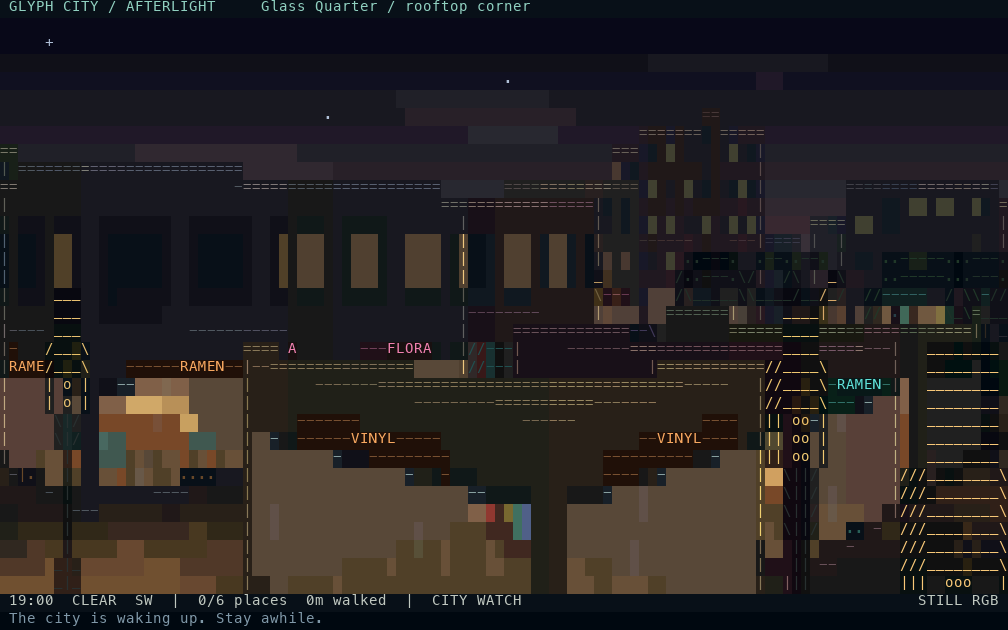
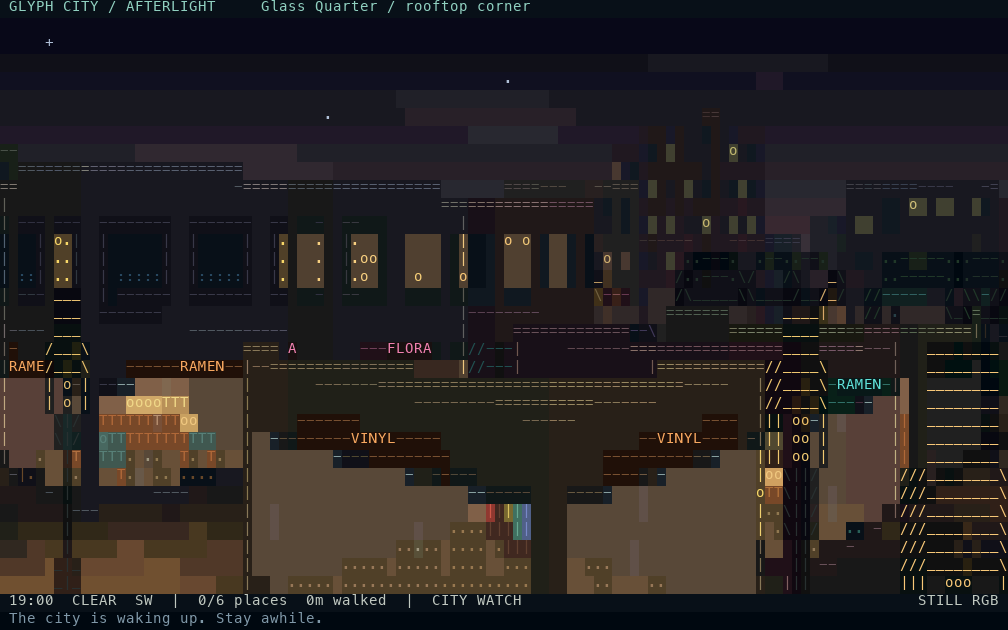
Use distance based environmental detail

diff --git a/glyph_city/render.py b/glyph_city/render.py
@@ -315,6 +315,8 @@ class Renderer:
                 right=c==self.cols-1 or self.surface[r][c+1]!=bid
                 top=r==0 or self.surface[r-1][c]!=bid
                 ch,fg,bg=self.buffer[r][c]
+                if self.depth[r][c] > 24:
+                    continue
                 if not (top or (left and c%3==0) or (right and c%3==0)) or ch not in (' ','.',':','-'):
                     continue
                 b=self.city.buildings[bid]
@@ -389,7 +391,7 @@ class Renderer:
                 fg=scale((74,131,83),.3+.65*day)
             elif tile=='b' and dist<16:
                 if y%3<.06: ch='-'
-            elif tile=='r':
+            elif tile=='r' and dist<22:
                 ax=abs(x%24-12); ay=abs(y%24-12)
                 if ax<.09 and int(y/1.7)%3<2 and ay>3:
                     ch='|'; fg=scale((230,190,111),.5+.5*day)
@@ -420,7 +422,8 @@ class Renderer:
         seam=min(u%pane,pane-u%pane)
         if seam<.035 or z<.29 or z>2.055:
             return ('|' if seam<.035 else '-',(139,165,167),(25,36,41),False)
-        ch,fg,bg=room_pixel(b.sign,span,depth,u,z,direction)
+        ch,fg,bg=room_pixel(b.sign,span,depth,u,z,direction) if dist<18 else (
+            ' ',(174,148,111),(60,48,39))
         length=math.hypot(direction[0],direction[1])
         grazing=1-direction[1]/max(length,1e-6)
         reflection=.025+.11*grazing**3
@@ -455,16 +458,17 @@ class Renderer:
             # with furniture glyphs used to obscure the building silhouette.
             edge=bay<.36 or bay>1.30 or level<.82 or level>1.98
             if edge:
-                ch=' '
+                ch='|' if dist<18 and .82<level<1.98 else '-' if dist<18 else ' '
                 fg=scale(base,shade*.82); bg=scale((24,29,38),.8)
             elif lit:
                 glow=mix((255,190,92),b.neon,.2)
                 glass=mix((20,27,38),glow,.26+.12*night)
                 fg=scale(glow,.9+.3*night); bg=scale(glass,.78)
-                ch=' '
+                ch=('o' if grain(int(u*11),int(z*11),b.seed)%7==0 else
+                    ' ' if dist>=18 else '.')
                 emits=True
             else:
-                ch=' '
+                ch=':' if dist<18 and int(level*8)%4==0 else ' '
                 fg=mix((49,89,119),self.fog,.25); bg=scale(fg,.25)
         elif story==0 and abs(u-span/2)<.42 and z<1.9:
             ch='|' if abs(u-span/2)>.3 else '.'

diff --git a/glyph_city/interiors.py b/glyph_city/interiors.py
@@ -87,7 +87,7 @@ def room_pixel(sign, width, depth, u, z, direction):
     if axis==2 and point[2]<.1:
         tile=(int(point[0]*2)+int(point[1]*2))%2
         bg=(88,68,47) if tile else (112,88,61)
-        ch=' '; fg=(155,125,86)
+        ch='.' if tile else ' '; fg=(155,125,86)
         if sign in ('BAR','LOUNGE','18+'):
             bg=(84,36,58) if tile else (112,45,65); fg=(203,84,126)
     elif axis==2:
@@ -97,7 +97,7 @@ def room_pixel(sign, width, depth, u, z, direction):
         if sign in ('BAR','LOUNGE','18+'):
             fg=(232,125,158); bg=(91,37,61) if axis==1 else (55,29,52)
         if 1.25<point[2]<1.85 and abs(point[0]-width*.5)<width*.16:
-            ch=' '
+            ch='=' if axis==2 else 'O'
             fg=(224,182,99); bg=(45,72,69)
     for bounds,color in furniture(sign,width,depth):
         hit=intersect(origin,direction,bounds)
@@ -106,7 +106,14 @@ def room_pixel(sign, width, depth, u, z, direction):
             factor=(.72,.87,1.0)[side]
             bg=tuple(int(v*factor) for v in color)
             fg=tuple(min(255,int(v*1.25)) for v in color)
-            # Furniture geometry and face shading carry the shape. A glyph
-            # on every surface sample turns chairs and shelves into stripes.
-            ch=' '
+            if sign in ('BAR','LOUNGE','18+'):
+                ch='=' if side==2 else 'O'
+            elif sign in ('BOOKS','VINYL','FLORA'):
+                ch='#' if side==2 else '|'
+            elif sign in ('RAMEN','CAFE','BAKERY'):
+                ch='o' if side==2 else 'T'
+            elif sign=='JAZZ':
+                ch='~' if side==2 else 'o'
+            else:
+                ch='-' if side==2 else '|'
     return ch,fg,bg

diff --git a/CHANGELOG.md b/CHANGELOG.md
@@ -3,6 +3,7 @@
 ## Current development
 
 - Simplified facade, pavement, water, cloud, window, and interior glyphs so color blocks and key silhouettes carry the scene without ASCII noise.
+- Added distance based detail: near surfaces keep expressive ASCII props, window interiors, road marks, and wave crests while distant geometry stays as readable color planes.
 - Reduced wet-road and glass reflection glare to preserve static-view silhouettes and road markings.
 - Added close-range resident faces, varied hair and skin colors, blinking eyes, and clearer umbrellas, with bounded sprite sizes and simpler distant crowds.
 - Distributed initial residents across distinct walkable cells and expanded ambient conversations to three turns, with weather-specific lines and remembered encounters.
